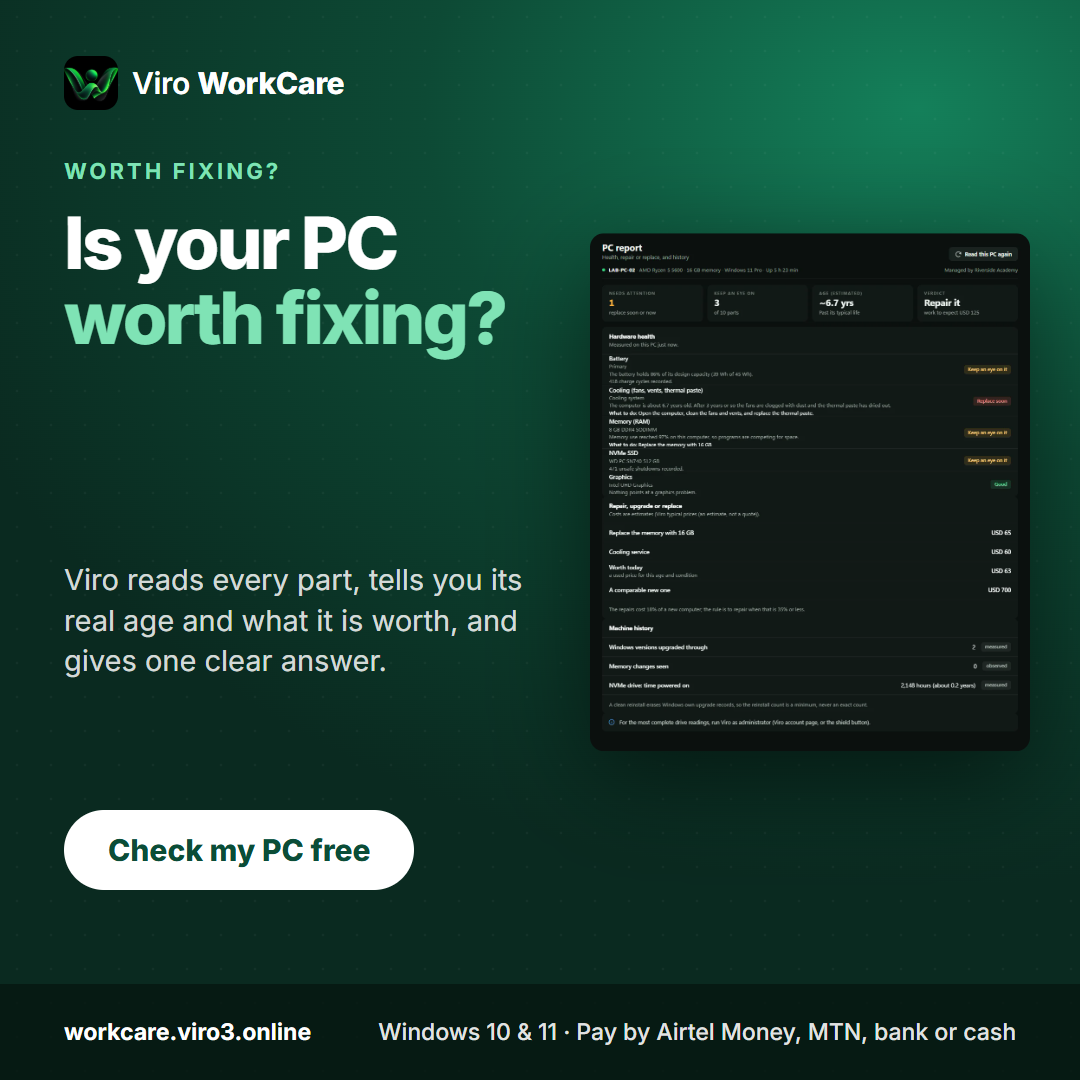
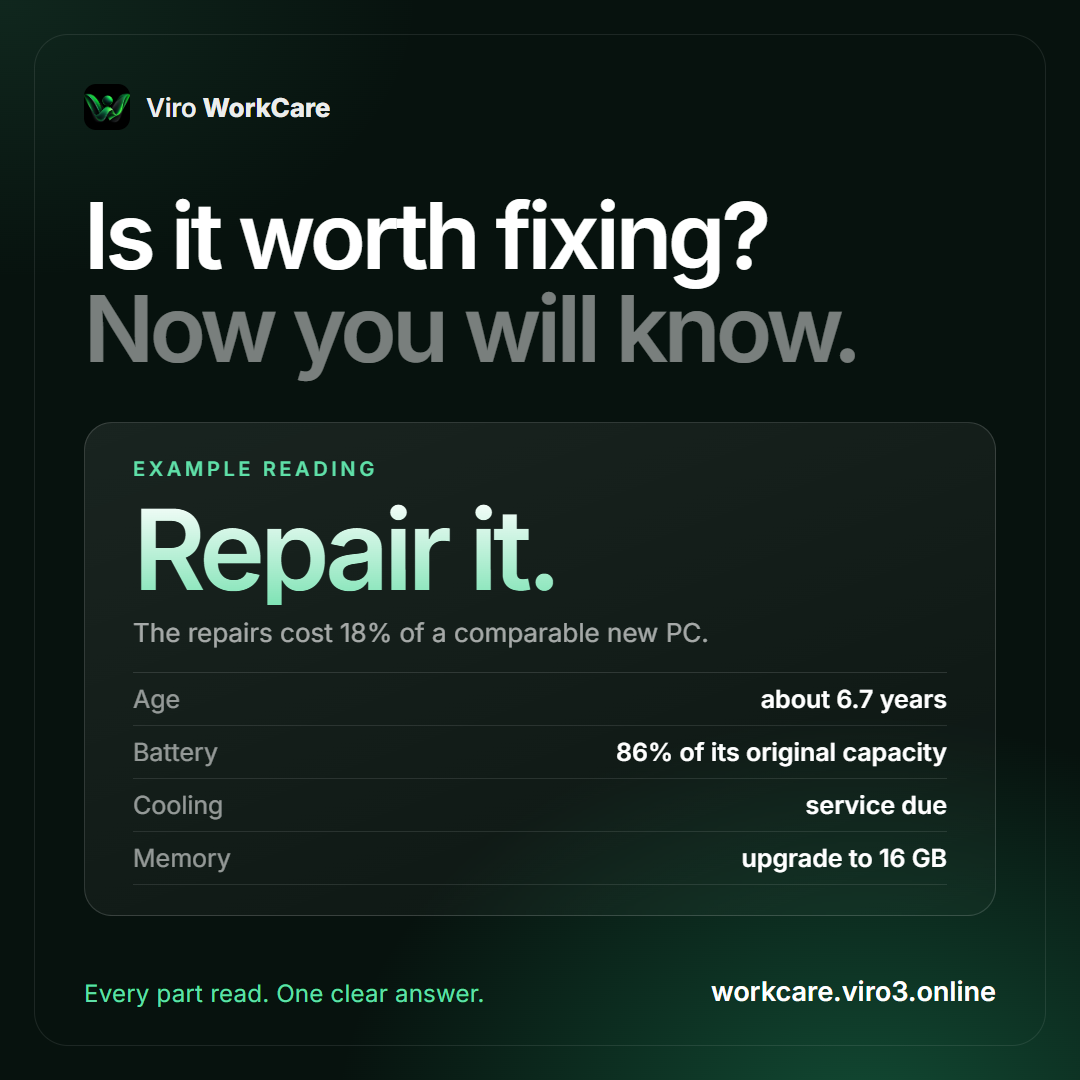
Ads redesigned: dark editorial look, drawn visuals instead of small screenshots, no payment line

diff --git a/docs/ads/index.html b/docs/ads/index.html
@@ -1,1 +1,1 @@
-<!doctype html><meta charset="utf-8"><title>Viro WorkCare ads</title><body style="font:15px Inter,system-ui;margin:24px;background:#f3f5f4"><h1>Viro WorkCare ad set</h1><h2 style="margin:28px 0 8px">Slow PC? <small style="font-weight:400;color:#555">(Everyday owners)</small></h2><div style="display:flex;gap:16px;align-items:flex-start"><img src="slow-pc-feed.png" style="height:420px"><img src="slow-pc-story.png" style="height:420px"></div><h2 style="margin:28px 0 8px">Worth fixing? <small style="font-weight:400;color:#555">(Whole-PC check)</small></h2><div style="display:flex;gap:16px;align-items:flex-start"><img src="worth-it-feed.png" style="height:420px"><img src="worth-it-story.png" style="height:420px"></div><h2 style="margin:28px 0 8px">New laptop? <small style="font-weight:400;color:#555">(Viro Move)</small></h2><div style="display:flex;gap:16px;align-items:flex-start"><img src="new-pc-feed.png" style="height:420px"><img src="new-pc-story.png" style="height:420px"></div><h2 style="margin:28px 0 8px">Buying used? <small style="font-weight:400;color:#555">(Used-PC buyers and shops)</small></h2><div style="display:flex;gap:16px;align-items:flex-start"><img src="buying-used-feed.png" style="height:420px"><img src="buying-used-story.png" style="height:420px"></div></body>
+<!doctype html><meta charset="utf-8"><title>Viro WorkCare ads</title><body style="font:15px Inter,system-ui;margin:24px;background:#f3f5f4"><h1>Viro WorkCare ad set</h1><h2 style="margin:28px 0 8px">slow-pc <small style="font-weight:400;color:#555">(Everyday owners: fix and prove)</small></h2><div style="display:flex;gap:16px;align-items:flex-start"><img src="slow-pc-feed.png" style="height:420px"><img src="slow-pc-story.png" style="height:420px"></div><h2 style="margin:28px 0 8px">worth-it <small style="font-weight:400;color:#555">(Whole-PC check: is it worth fixing)</small></h2><div style="display:flex;gap:16px;align-items:flex-start"><img src="worth-it-feed.png" style="height:420px"><img src="worth-it-story.png" style="height:420px"></div><h2 style="margin:28px 0 8px">new-pc <small style="font-weight:400;color:#555">(Viro Move: change PC without losing anything)</small></h2><div style="display:flex;gap:16px;align-items:flex-start"><img src="new-pc-feed.png" style="height:420px"><img src="new-pc-story.png" style="height:420px"></div><h2 style="margin:28px 0 8px">buying-used <small style="font-weight:400;color:#555">(Used-PC buyers and shops: the certificate)</small></h2><div style="display:flex;gap:16px;align-items:flex-start"><img src="buying-used-feed.png" style="height:420px"><img src="buying-used-story.png" style="height:420px"></div></body>
